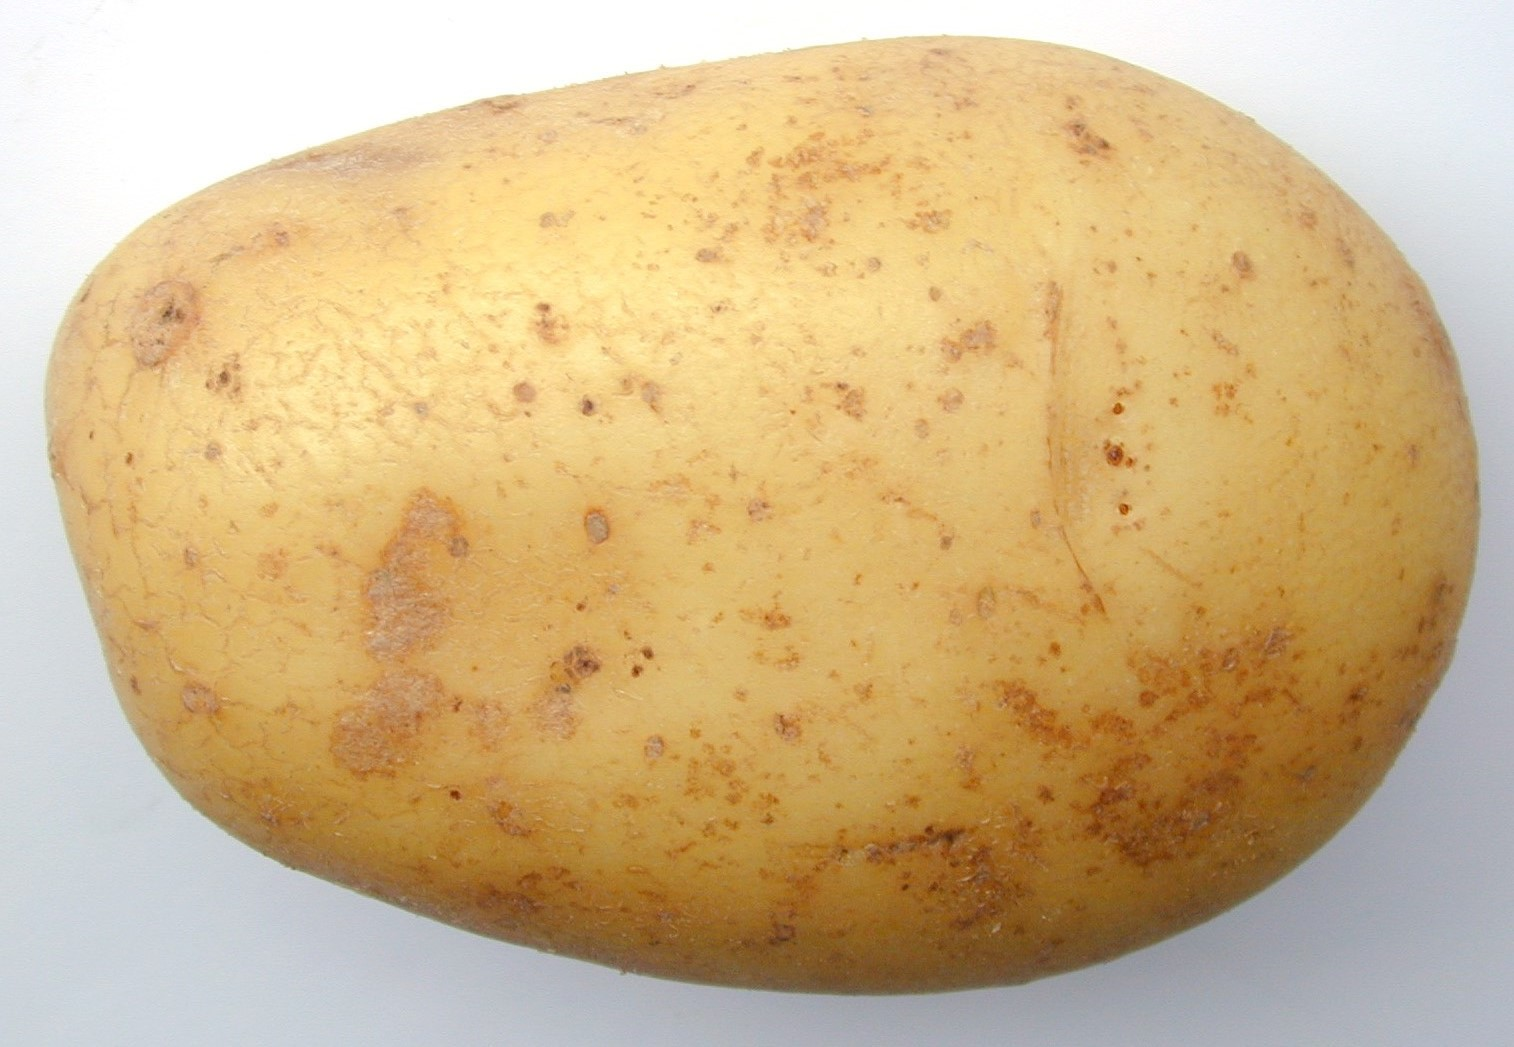
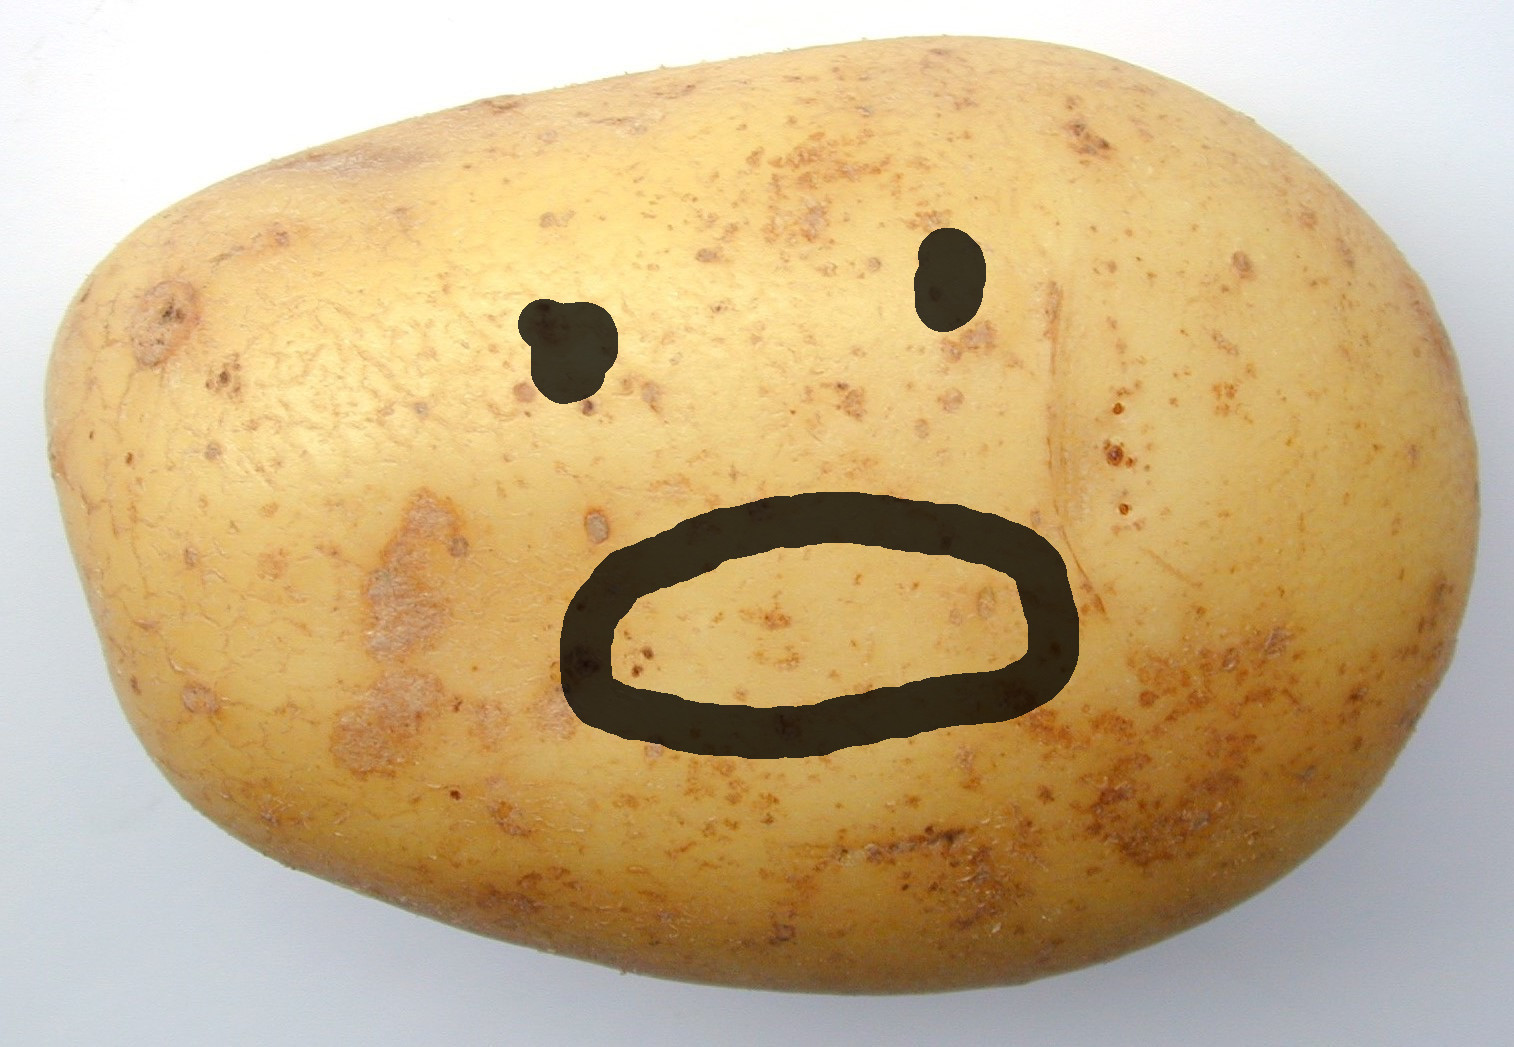
potat yay

Changed region(s): [[0.3725, 0.4585, 0.714, 0.7335], [0.3415, 0.2751, 0.4346, 0.3973], [0.5898, 0.2139, 0.6519, 0.3362]]

diff --git a/docs/index.html b/docs/index.html
@@ -224,6 +224,8 @@
     Easily copy-and-paste data from sources to automatically generate cards.
 </h5>
 
+<img src="https://github.com/AlxV05/NCFCAAutoEvidencer/blob/main/potat.jpg" alt="potat" style="align-content: center">
+
 <div class="input-container" style="border: 1px solid #ccc">
     <label>Author(s):</label>
     <div class="credential-input" contenteditable="true" id="authorInput"></div>
